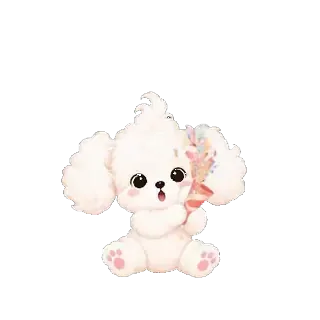
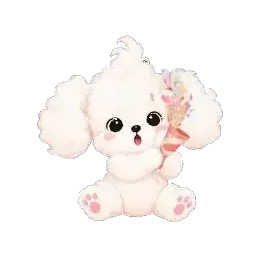
움짤 이모티콘 크기 74% 통일 — 캐릭터키 기준(캔버스 크롭, 확대 아님)
우댕: 폭죽 터지는 거 사이즈 너무 작음 → 실측하니 캐릭터가 캔버스의 59%뿐
(종이꽃이 사방에 퍼져 bbox는 91%라 안 잡힘). 사람 눈은 '캐릭터 키'를 봄.
- 알파 연결요소 중 가장 큰 덩어리(=캐릭터)를 재서 캔버스 대비 74%로 통일.
  15종: party·hug·shy·bath·gift·wave + (글자 지우고) sorry·love·night·hi·sick·thanks·sulk·yay·doki.
- ⚠ 확대(리샘플링)가 아니라 캔버스를 크롭/패딩 → 화질 그대로, 용량 오히려 감소
  (party 275→234KB 등 15종 전부 줄어듦). 화면 max-h-138/max-w-150이 캔버스를 맞추니
  캔버스 대비 비율만 같으면 같은 크기로 보임.
- 함정(사이담 스크립트): 전 프레임 동일 변환/캐릭터키 중앙값 배율/74% 상한/disposal=2/quality72.
- still 썸네일 15종 새 첫프레임으로 재생성. EMO_V 3→4(캐시 무효화).
- 으악은 얼굴 클로즈업(58%)이라 어느 비율에서도 잘려 제외 — 팩에 작게 유지(사이담은 리타이어, 우린 남김).
- 장면카드(bed·peek·rain·missyou·sunrise 100%)는 의도라 그대로.

사이담 norm-emo-size.py(54403e4) 사용. 우리 측정값이 사이담과 동일 = 같은 원본.

diff --git a/src/components/ChatPanel.tsx b/src/components/ChatPanel.tsx
@@ -154,7 +154,8 @@ const ANIM_RAW: { word: string; image: string; still: string }[] = [
 ];
 // ⚠ sai-anim webp/still을 사이담이 같은 이름으로 재인코딩(알파 복구·재작업)할 때마다 EMO_V를 +1 → 기기 캐시 무효화(전역).
 //   2026-09-11 알파 복구(라이트에서 눈 회색) 14종 반영으로 3. (사이담 EMO_V와 별개, 값만 맞춰 올리면 됨)
-const EMO_V = 3;
+//   2026-09-13 크기 74% 통일(캐릭터키 기준) 15종 + still 재생성 → 4. 폭죽 59%→74% 등. 으악은 우리는 팩에 남김(사이담은 리타이어).
+const EMO_V = 4;
 const ANIM_STICKERS = ANIM_RAW.map((s) => ({ ...s, image: `${s.image}?v=${EMO_V}`, still: `${s.still}?v=${EMO_V}` }));
 
 // ── 카톡식 이모티콘 추천 — 입력 텍스트의 키워드로 관련 스티커를 입력바 위에 띄운다(탭하면 전송) ──
